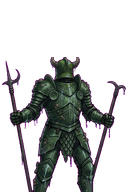
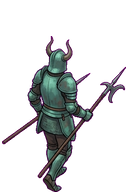
Turn fifteen more creatures onto the floor's diagonals
Seventy-four of ninety-seven iso files redrawn at the floor's own camera.
Twenty-four of the thirty-five creatures now have both facings; eleven
creatures and the treasure chest remain.

Each sheet is read before it is installed, because the generator's grid is
advisory: 4x2, 4x3 and 2x3 all came back for the same request, sometimes
with a creature repeated across two cells and sometimes with a row of four
orientations where two were asked for. `--cells` picks the two wanted out
of what arrived, and a row whose height does not match its neighbours is
cropped out and installed on its own rather than divided uniformly - which
is what put an ogre's head inside the swarm's cell earlier.

Claude-Session: https://claude.ai/code/session_016Fdbt4ngzhze1PpWfEmZ79

diff --git a/ART_PROMPTS.md b/ART_PROMPTS.md
@@ -8,7 +8,7 @@ same reason: a hand-kept prompt sheet goes stale, and a prompt naming an enemy
 the game no longer has produces a painting with nowhere to go. The *why* is
 [ART.md](ART.md); that file is the shopping list; this one is the wording.
 
-**53 files can be generated.** The rest of the list cannot, and the sections below
+**23 files can be generated.** The rest of the list cannot, and the sections below
 say which and why — the expensive mistake is not a bad painting, it is a good
 painting of a thing that had to be computed.
 
@@ -27,7 +27,7 @@ painting of a thing that had to be computed.
    stronger constraint on palette and line weight than any adjective. `main_menu.jpg`
    is what a request without it looks like.
 3. **Paste the style block below unchanged, then one subject line.** Do not
-   improve it between images. Its job is to be identical 53 times.
+   improve it between images. Its job is to be identical 23 times.
 
 ```
 Painted dark-fantasy storybook illustration, in the style of the attached reference image.
@@ -129,44 +129,14 @@ Nothing to generate here — all 20 present.
 
 A small figure seen from the ISOMETRIC CAMERA THIS GAME ACTUALLY USES, which is not a head-on view. The floor tile is 116x58 - exactly 2:1 - so the camera looks DOWN at the floor from about 27 degrees above it. Draw the figure from that height: you see the top of its head and its shoulders, its feet are further down the frame than a head-on view would put them, and the ground it stands on would read as a flattened diamond rather than a line. It is also TURNED: the four walking directions all run diagonally across the screen, so the figure faces a DIAGONAL, three-quarter, never straight out of the frame. IT FACES DOWN AND TO THE LEFT - toward the camera and to the viewer's left, at 45 degrees, so the viewer sees the front of it and its left-hand side at once. Standing on nothing, on a flat even field for the matte: the feet must be the lowest painted pixel and there must be no ground, no shadow, no plinth and no scenery under it. Mid-value and lit from above and in front, clearly lighter than the floor across most of the body, with real interior: cloth, metal, skin, a face.
 
-**Generate these as ONE image, not 52.** A 8x7 grid, cells in the order of the table below, left to right then top to bottom, flat even background, nothing touching a cell edge. This is a RE-ROLL of 52 of this tier's 70 files: the rest are already installed and are the reference, so match the set on disk for weight, fill and how much of its cell the shape uses. Install: `godot --headless --script tools/install_sheet.gd -- iso_foes <sheet.png> --only=cultist_s,cultist_n,deep_warden_s,deep_warden_n,drowned_thrall_s,drowned_thrall_n,ember_hound_s,ember_hound_n,false_step_s,false_step_n,forge_hound_s,forge_hound_n,fungal_host_s,fungal_host_n,grave_moth_s,grave_moth_n,grave_sexton_s,grave_sexton_n,hexer_s,hexer_n,last_vendor_s,last_vendor_n,market_ghoul_s,market_ghoul_n,marrow_abbot_s,marrow_abbot_n,marrow_priest_s,marrow_priest_n,maw_tender_s,maw_tender_n,mycelial_lord_s,mycelial_lord_n,ossuary_wretch_s,ossuary_wretch_n,pale_acolyte_s,pale_acolyte_n,plague_rat_s,plague_rat_n,rat_swarm_s,rat_swarm_n,rot_priest_s,rot_priest_n,slag_wretch_s,slag_wretch_n,spore_thing_s,spore_thing_n,the_gardener_s,the_gardener_n,tomb_guard_s,tomb_guard_n,warden_s,warden_n`
+**Generate these as ONE image, not 22.** A 5x5 grid, cells in the order of the table below, left to right then top to bottom, flat even background, nothing touching a cell edge. This is a RE-ROLL of 22 of this tier's 70 files: the rest are already installed and are the reference, so match the set on disk for weight, fill and how much of its cell the shape uses. Install: `godot --headless --script tools/install_sheet.gd -- iso_foes <sheet.png> --only=mycelial_lord_s,mycelial_lord_n,ossuary_wretch_s,ossuary_wretch_n,pale_acolyte_s,pale_acolyte_n,plague_rat_s,plague_rat_n,rat_swarm_s,rat_swarm_n,rot_priest_s,rot_priest_n,slag_wretch_s,slag_wretch_n,spore_thing_s,spore_thing_n,the_gardener_s,the_gardener_n,tomb_guard_s,tomb_guard_n,warden_s,warden_n`
 
-**52 to RE-ROLL** — these files exist and are wrong. Same style block and same subject line as a first draft; what is on disk is not a constraint on what comes back.
+**22 to RE-ROLL** — these files exist and are wrong. Same style block and same subject line as a first draft; what is on disk is not a constraint on what comes back.
 
-*All 52 have the same defect: HEAD-ON, and the floor is isometric — redraw at the camera's own angle (see the brief)..*
+*All 22 have the same defect: HEAD-ON, and the floor is isometric — redraw at the camera's own angle (see the brief)..*
 
 | save as | size | subject |
 |---|---|---|
-| `iso/foe/cultist_s.png` | 128x192 | **Cultist**, walking down-left toward the camera. The same creature as `enemies/cultist.png`, turned onto the diagonal. |
-| `iso/foe/cultist_n.png` | 128x192 | **%s**, walking up-right away from the camera, seen from behind and above. |
-| `iso/foe/deep_warden_s.png` | 128x192 | **The Deep Warden**, walking down-left toward the camera. The same creature as `enemies/deep_warden.png`, turned onto the diagonal. |
-| `iso/foe/deep_warden_n.png` | 128x192 | **%s**, walking up-right away from the camera, seen from behind and above. |
-| `iso/foe/drowned_thrall_s.png` | 128x192 | **Drowned Thrall**, walking down-left toward the camera. The same creature as `enemies/drowned_thrall.png`, turned onto the diagonal. |
-| `iso/foe/drowned_thrall_n.png` | 128x192 | **%s**, walking up-right away from the camera, seen from behind and above. |
-| `iso/foe/ember_hound_s.png` | 128x192 | **Ember Hound**, walking down-left toward the camera. The same creature as `enemies/ember_hound.png`, turned onto the diagonal. |
-| `iso/foe/ember_hound_n.png` | 128x192 | **%s**, walking up-right away from the camera, seen from behind and above. |
-| `iso/foe/false_step_s.png` | 128x192 | **The False Step**, walking down-left toward the camera. The same creature as `enemies/false_step.png`, turned onto the diagonal. |
-| `iso/foe/false_step_n.png` | 128x192 | **%s**, walking up-right away from the camera, seen from behind and above. |
-| `iso/foe/forge_hound_s.png` | 128x192 | **Forge Hound**, walking down-left toward the camera. The same creature as `enemies/forge_hound.png`, turned onto the diagonal. |
-| `iso/foe/forge_hound_n.png` | 128x192 | **%s**, walking up-right away from the camera, seen from behind and above. |
-| `iso/foe/fungal_host_s.png` | 128x192 | **Fungal Host**, walking down-left toward the camera. The same creature as `enemies/fungal_host.png`, turned onto the diagonal. |
-| `iso/foe/fungal_host_n.png` | 128x192 | **%s**, walking up-right away from the camera, seen from behind and above. |
-| `iso/foe/grave_moth_s.png` | 128x192 | **Grave Moth**, walking down-left toward the camera. The same creature as `enemies/grave_moth.png`, turned onto the diagonal. |
-| `iso/foe/grave_moth_n.png` | 128x192 | **%s**, walking up-right away from the camera, seen from behind and above. |
-| `iso/foe/grave_sexton_s.png` | 128x192 | **The Grave-Sexton**, walking down-left toward the camera. The same creature as `enemies/grave_sexton.png`, turned onto the diagonal. |
-| `iso/foe/grave_sexton_n.png` | 128x192 | **%s**, walking up-right away from the camera, seen from behind and above. |
-| `iso/foe/hexer_s.png` | 128x192 | **Hexer**, walking down-left toward the camera. The same creature as `enemies/hexer.png`, turned onto the diagonal. |
-| `iso/foe/hexer_n.png` | 128x192 | **%s**, walking up-right away from the camera, seen from behind and above. |
-| `iso/foe/last_vendor_s.png` | 128x192 | **The Last Vendor**, walking down-left toward the camera. The same creature as `enemies/last_vendor.png`, turned onto the diagonal. |
-| `iso/foe/last_vendor_n.png` | 128x192 | **%s**, walking up-right away from the camera, seen from behind and above. |
-| `iso/foe/market_ghoul_s.png` | 128x192 | **Market Ghoul**, walking down-left toward the camera. The same creature as `enemies/market_ghoul.png`, turned onto the diagonal. |
-| `iso/foe/market_ghoul_n.png` | 128x192 | **%s**, walking up-right away from the camera, seen from behind and above. |
-| `iso/foe/marrow_abbot_s.png` | 128x192 | **The Marrow-Abbot**, walking down-left toward the camera. The same creature as `enemies/marrow_abbot.png`, turned onto the diagonal. |
-| `iso/foe/marrow_abbot_n.png` | 128x192 | **%s**, walking up-right away from the camera, seen from behind and above. |
-| `iso/foe/marrow_priest_s.png` | 128x192 | **Marrow Priest**, walking down-left toward the camera. The same creature as `enemies/marrow_priest.png`, turned onto the diagonal. |
-| `iso/foe/marrow_priest_n.png` | 128x192 | **%s**, walking up-right away from the camera, seen from behind and above. |
-| `iso/foe/maw_tender_s.png` | 128x192 | **Maw Tender**, walking down-left toward the camera. The same creature as `enemies/maw_tender.png`, turned onto the diagonal. |
-| `iso/foe/maw_tender_n.png` | 128x192 | **%s**, walking up-right away from the camera, seen from behind and above. |
 | `iso/foe/mycelial_lord_s.png` | 128x192 | **The Mycelial Lord**, walking down-left toward the camera. The same creature as `enemies/mycelial_lord.png`, turned onto the diagonal. |
 | `iso/foe/mycelial_lord_n.png` | 128x192 | **%s**, walking up-right away from the camera, seen from behind and above. |
 | `iso/foe/ossuary_wretch_s.png` | 128x192 | **Ossuary Wretch**, walking down-left toward the camera. The same creature as `enemies/ossuary_wretch.png`, turned onto the diagonal. |
